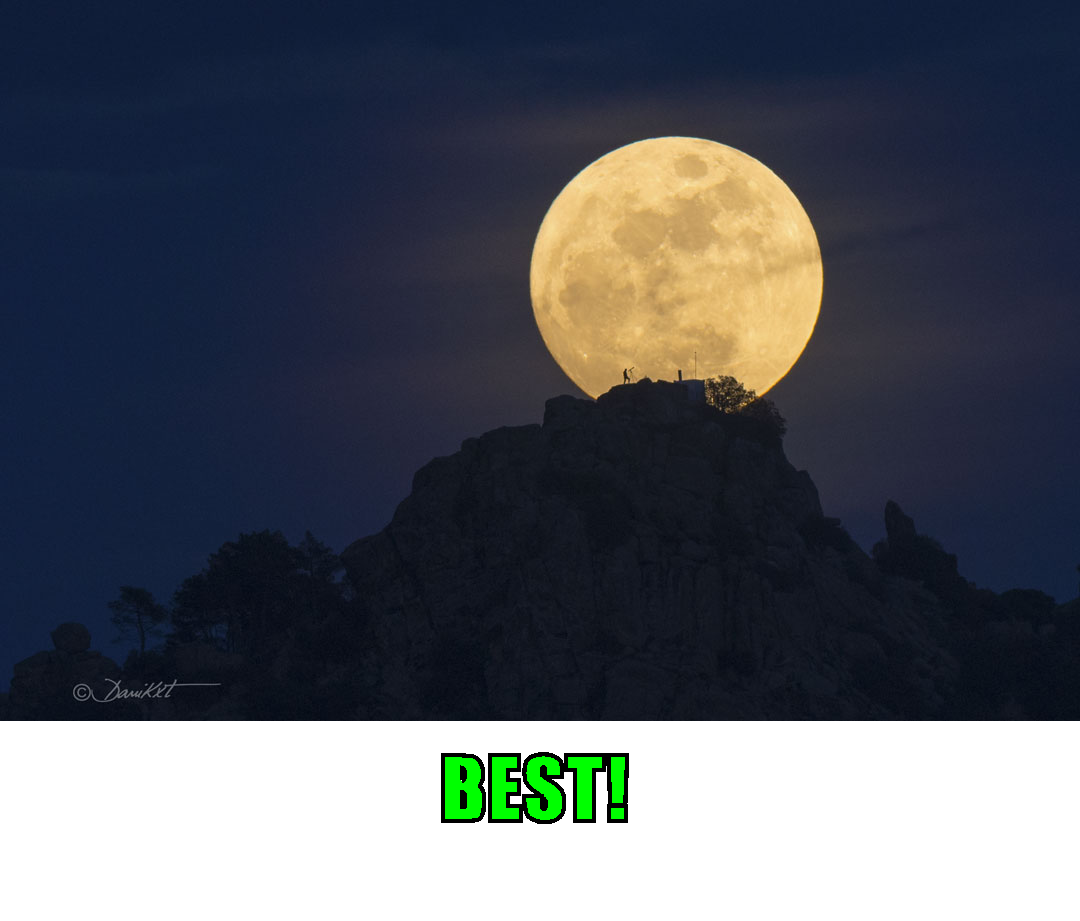
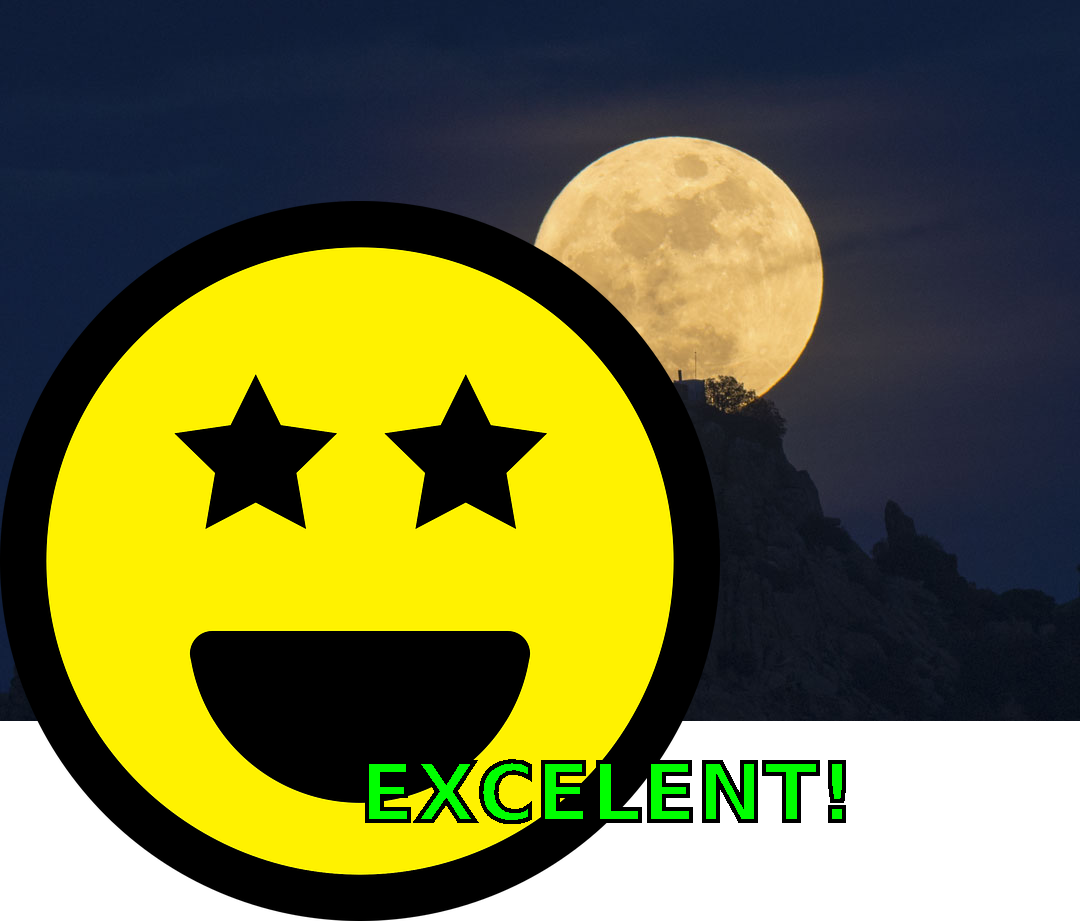
aula 3 final

diff --git a/src/App.java b/src/App.java
@@ -1,60 +1,57 @@
 import java.io.InputStream;
-import java.net.URI;
 import java.net.URL;
-import java.net.http.HttpClient;
-import java.net.http.HttpRequest;
-import java.net.http.HttpResponse;
-import java.net.http.HttpResponse.BodyHandlers;
 import java.util.List;
-import java.util.Map;
 import java.io.FileInputStream;
 import java.util.Properties;
 
 public class App {
-    public static void main(String[] args) throws Exception{
+    public static void main(String[] args) throws Exception {
 
         // load environment variables from .env file
         Properties prop = new Properties();
         FileInputStream fis = new FileInputStream(".env");
         prop.load(fis);
 
-        String apiKeyIMDB = System.getenv("API_KEY_IMDB");
-//        String apiKeyIMDB = prop.getProperty("API_KEY_IMDB");
+//        String apiKeyIMDB = System.getenv("API_KEY_IMDB");
+        String apiKeyIMDB = prop.getProperty("API_KEY_IMDB");
         String apiKeyNASA = prop.getProperty("API_KEY_NASA");
         //- make http connection and get 250 top movies /////////////////////////////////////////
         //https://imdb-api.com/en/API/Top250Movies/k_6k2swk8s
-        String url = "https://imdb-api.com/en/API/Top250Movies/"+ apiKeyIMDB;
+        String urlIMDB = "https://imdb-api.com/en/API/Top250Movies/" + apiKeyIMDB;
+//        String url = "https://imdb-api.com/en/API/MostPopularMovies/"+ apiKeyIMDB;
+//        String url = "https://raw.githubusercontent.com/alura-cursos/imersao-java-2-api/main/NASA-APOD.json";
+//        String url ="https://raw.githubusercontent.com/alura-cursos/imersao-java-2-api/main/TopMovies.json";
+        System.out.println(apiKeyIMDB);
 
         // -nasa api https://api.nasa.gov/planetary/apod?api_key=DEMO_KEY ///////////////////////////
-        String url2 = "https://api.nasa.gov/planetary/apod?api_key="+ apiKeyNASA+ "&start_date=2022-06-12&end_date=2022-06-14";
-
-        URI address = URI.create(url);
-       //HttpClient client = HttpClient.newHttpClient();//can only declare var if Java can find Type auto
-        var client = HttpClient.newHttpClient();
-       HttpRequest request = HttpRequest.newBuilder(address).GET().build();
-       HttpResponse<String> response = client.send(request, BodyHandlers.ofString());
-       String body = response.body();
+        String urlNASA = "https://api.nasa.gov/planetary/apod?api_key=" + apiKeyNASA + "&start_date=2022-06-12&end_date=2022-06-14";
 
 
-        System.out.println(body);
+        //ClientHttp CLASS ////////////////////////////////////////////
+        var http = new ClientHttp();
+//        String json = http.searchData(urlIMDB);
+        String json = http.searchData(urlNASA);
 
-        //extract data ///////////////////////////////////////////////////////////////////////////
-        var parser = new JsonParser();
-        List <Map <String, String>> contentList = parser.parse(body);
 
-        System.out.println(contentList.size());//list size
-        System.out.println(contentList.get(0));//get item 0
+        //extract data Content CLASS NASA ///////////////////////////////////////////////////////////////////////////
+        ContentExtractorNASA extractor = new ContentExtractorNASA();
 
-        //show data //////////////////////////////////////////////////////////////////////////////
-        int size = contentList.size();
-        for (Map<String, String> content : contentList) {
-//            Map<String, String> movie = movieList.get(i);
-            //        for (Map<String,String> movie : movieList){
+        //extract data Content CLASS IMDB ///////////////////////////////////////////////////////////////////////////
+//        ContentExtractorIMDB extractor = new ContentExtractorIMDB();
 
-            System.out.println("\u001B[1mTitle : " + content.get("title") + "\u001B[0m");
-            System.out.println("Image : " + content.get("url"));
+        //create content list
+        List<Content> contentsList = extractor.extractContent(json);
+        var generator = new ImageGenerator();
 
-            //for imdb
+
+        //show and manipulate data //////////////////////////////////////////////////////////////////////////////
+        for (Content content : contentsList) {
+
+
+//            System.out.println("\u001B[1mTitle : " + content.get("title") + "\u001B[0m");
+//            System.out.println("Image : " + content.get("url"));
+
+            //for imdb rate
             /*
             System.out.println("\u001B[34mRating : " +movie.get("imDbRating") + "\u001B[0m");
             int rate = Math.round(Float.parseFloat(movie.get("imDbRating")));
@@ -64,28 +61,38 @@ public class App {
              */
             System.out.println("\n-----------------------------------------");
 
-            //alura regex
-            //String urlImage = content.get("url").replaceAll("(@+)(.*).jpg$", "$1.jpg");
-
-
             //to IMDB
-            String urlImage = content.get("url");
-            int indexToCut = urlImage.indexOf('@');
-            String cleanedUrl = urlImage.substring(0, indexToCut + 2);
-            String urlImageFinal = cleanedUrl + ".jpg";
-            System.out.println(urlImageFinal);
-            System.out.println(urlImage);
-            int textSize = content.get("title").length();
-            String fileName =  content.get("title") + ".png";
+//            String urlImage = content.get("image");
+//            int indexToCut = urlImage.indexOf('@');
+//            String cleanedUrl = urlImage.substring(0, indexToCut + 2);
+//            String urlImageFinal = cleanedUrl + ".jpg";
+//            System.out.println(urlImageFinal);
+//            System.out.println(urlImage);
+//            int textSize = content.get("title").length();
+//            String fileName =  content.get("title") + ".png";   //NASA
+
+//                Content content = contentsList.get(i);
+
+            String title = content.title();
+            String fileName = title.substring(0, 3) + ".png";//IMDB
+//            String fileName = content.get("title").substring(0, 7) + ".png";//IMDB
+//            double imdbRate = Double.parseDouble(content.get("imDbRating"));
+
+            String comment = "";
+            InputStream devImage;
+//            if (imdbRate >= 8){
+            comment = "EXCELENT!";
+            devImage = new FileInputStream("my_images/good.png");
+//            } else {
+//                comment ="meh";
+//                devImage = new FileInputStream("my_images/bad.png");
+//            }
 
 
-            //String fileName = content.get("title").substring(0, 3) + ".png";
+            InputStream inputStream = new URL(content.imageUrl()).openStream();
 
-            System.out.println(fileName);
-            InputStream inputStream = new URL(urlImage).openStream();
-            var genImage = new ImageGenerator();
-            String comment = "Hey !";
-            genImage.create(inputStream, fileName, comment);
+            System.out.println(title);
+            generator.create(inputStream, fileName, comment, devImage);
 //            System.exit(0);
         }
     }

diff --git a/src/ImageGenerator.java b/src/ImageGenerator.java
@@ -12,7 +12,7 @@ import java.net.URL;
 
 public class ImageGenerator {
 
-    public void create(InputStream inputStream, String fileName, String comment ) throws IOException {
+    public void create(InputStream inputStream, String fileName, String comment, InputStream inputStreamOver) throws IOException {
 
         //read image
 //        BufferedImage originalImage = ImageIO.read(new File("assets/movie_image_bigger.jpg"));//read from assets folder
@@ -22,16 +22,23 @@ public class ImageGenerator {
 //        InputStream inputStrem = new URL("https://m.media-amazon.com/images/M/MV5BY2Q2NDI1MjUtM2Q5ZS00MTFlLWJiYWEtNTZmNjQ3OGJkZDgxXkEyXkFqcGdeQXVyNTI4MjkwNjA@.jpg").openStream();
         BufferedImage originalImage = ImageIO.read(inputStream);
 
+
+        //create new image in memory with new size and filter
         int width = originalImage.getWidth();
         int height = originalImage.getHeight();
         int newHeigh = height + 200;
+        BufferedImage newImage = new BufferedImage(width, newHeigh, BufferedImage.TRANSLUCENT);
 
-        //create new image in memory with new size and filter
-        BufferedImage newImage = new BufferedImage(width,newHeigh, BufferedImage.TRANSLUCENT);
-        Graphics2D graphics =  (Graphics2D) newImage.getGraphics();
 
         //copy original image to new image, graphics is like a pen to write in this image
+        Graphics2D graphics = (Graphics2D) newImage.getGraphics();
         graphics.drawImage(originalImage, 0, 0, null);
+
+        //draw my_image, passed as inputStreamOver
+        BufferedImage imageOver = ImageIO.read(inputStreamOver);
+        int positionImageOverY = newHeigh - imageOver.getHeight();
+        graphics.drawImage(imageOver, 0, positionImageOverY, null);
+
 
         //customize font
         var font = new Font("Impact", Font.BOLD, 80);
@@ -41,19 +48,18 @@ public class ImageGenerator {
 
 
         //write sentence in the new image
-        var text  = "BEST!";
         //my solution to center text
-        var center = width/2 - (text.length() * 20);    //lets image each char 20px
+        var center = width / 2 - (comment.length() * 20);    //lets image each char 20px
         var centerHeight = newHeigh - 100;
 
         //alura solution
         FontMetrics fontMetrics = graphics.getFontMetrics();
-        Rectangle2D rectangle = fontMetrics.getStringBounds(text,graphics);
+        Rectangle2D rectangle = fontMetrics.getStringBounds(comment, graphics);
         int textWidth = (int) rectangle.getWidth();
-        var center2 = (width - textWidth) / 2 ;
+        var center2 = (width - textWidth) / 2;
 
 
-        graphics.drawString(text, center , centerHeight);
+        graphics.drawString(comment, center, centerHeight);
 
         //to outline, my solution
 //        graphics.setColor(Color.GREEN);
@@ -63,7 +69,7 @@ public class ImageGenerator {
         //to outline, alura solution
         //textLayout
         FontRenderContext fontRenderContext = graphics.getFontRenderContext();
-        var textLayout = new TextLayout(text, font, fontRenderContext);
+        var textLayout = new TextLayout(comment, font, fontRenderContext);
         //pencil
         Shape outline = textLayout.getOutline(null);
         AffineTransform transform = graphics.getTransform();
@@ -92,12 +98,12 @@ public class ImageGenerator {
         }
         System.out.println(myHeight);
         System.out.println(myWidth);
-        BufferedImage resizedImage = new BufferedImage(myWidth, myHeight,myImage.getType());
+        BufferedImage resizedImage = new BufferedImage(myWidth, myHeight, myImage.getType());
 
 //        graphics.drawImage(myImage, 0,0,null);
 
         //write new image in new file
-        ImageIO.write(newImage, "png", new File("assets/"+fileName));
+        ImageIO.write(newImage, "png", new File("assets/" + fileName));
 
     }
 

diff --git a/src/ClientHttp.java b/src/ClientHttp.java
@@ -1,0 +1,26 @@
+import java.io.IOException;
+import java.net.URI;
+import java.net.http.HttpClient;
+import java.net.http.HttpRequest;
+import java.net.http.HttpResponse;
+
+public class ClientHttp {
+
+    public String searchData(String url) {
+
+        try {
+//            URI address = URI.create(url);
+            //HttpClient client = HttpClient.newHttpClient();//can only declare var if Java can find Type auto
+            var client = HttpClient.newHttpClient();
+            HttpRequest request = HttpRequest.newBuilder(URI.create(url)).GET().build();
+            HttpResponse<String> response = client.send(request, HttpResponse.BodyHandlers.ofString());
+            return response.body();
+//            String body = response.body();
+//            System.out.println(body);
+//            return body;
+        } catch (IOException | InterruptedException ex) {
+            throw new RuntimeException(ex);
+        }
+
+    }
+}

diff --git a/src/ContentExtractorIMDB.java b/src/ContentExtractorIMDB.java
@@ -1,0 +1,29 @@
+import java.util.ArrayList;
+import java.util.List;
+import java.util.Map;
+
+public class ContentExtractorIMDB implements ContentExtractor {
+
+    public List<Content> extractContent(String json) {
+
+        //extract data from string json
+        var parser = new JsonParser();
+        List<Map<String, String>> parsedList = parser.parse(json);
+
+        List<Content> contentsList = new ArrayList<>();
+
+        //populate content with parsed list
+        for (Map<String, String> attributes : parsedList) {
+            String title = attributes.get("title");
+            String imageUrl = attributes.get("image")
+                    .replaceAll("(@+)(.*).jpg$", "$1.jpg");
+
+            var content = new Content(title, imageUrl);
+
+            contentsList.add(content);
+
+        }
+
+        return contentsList;
+    }
+}

diff --git a/src/ContentExtractorNASA.java b/src/ContentExtractorNASA.java
@@ -1,0 +1,26 @@
+import java.util.ArrayList;
+import java.util.List;
+import java.util.Map;
+
+public class ContentExtractorNASA implements ContentExtractor {
+
+    public List<Content> extractContent(String json) {
+
+        //extract data from string json
+        var parser = new JsonParser();
+        List<Map<String, String>> parsedList = parser.parse(json);
+
+        List<Content> contentsList = new ArrayList<>();
+
+        //populate content with parsed list
+        for (Map<String, String> attributes : parsedList) {
+            String title = attributes.get("title");
+            String imageUrl = attributes.get("url");
+            var content = new Content(title, imageUrl);
+            contentsList.add(content);
+
+        }
+
+        return contentsList;
+    }
+}

diff --git a/src/Content.java b/src/Content.java
@@ -1,31 +1,7 @@
-public class Content {
+/**
+ * @param title titleurl(image url)
+ */
+public record Content(String title, String imageUrl) {
 
-    //title
-    //url(image url)
-    private String title;
-    private String imageUrl;
 
-    public Content() {
-    }
-
-    public Content(String title, String imageUrl) {
-        this.title = title;
-        this.imageUrl = imageUrl;
-    }
-
-    public String getTitle() {
-        return title;
-    }
-
-    public void setTitle(String title) {
-        this.title = title;
-    }
-
-    public String getImageUrl() {
-        return imageUrl;
-    }
-
-    public void setImageUrl(String imageUrl) {
-        this.imageUrl = imageUrl;
-    }
 }

diff --git a/src/ContentExtractor.java b/src/ContentExtractor.java
@@ -1,0 +1,7 @@
+import java.util.List;
+
+public interface ContentExtractor {
+
+    public List<Content> extractContent(String json);
+
+}
